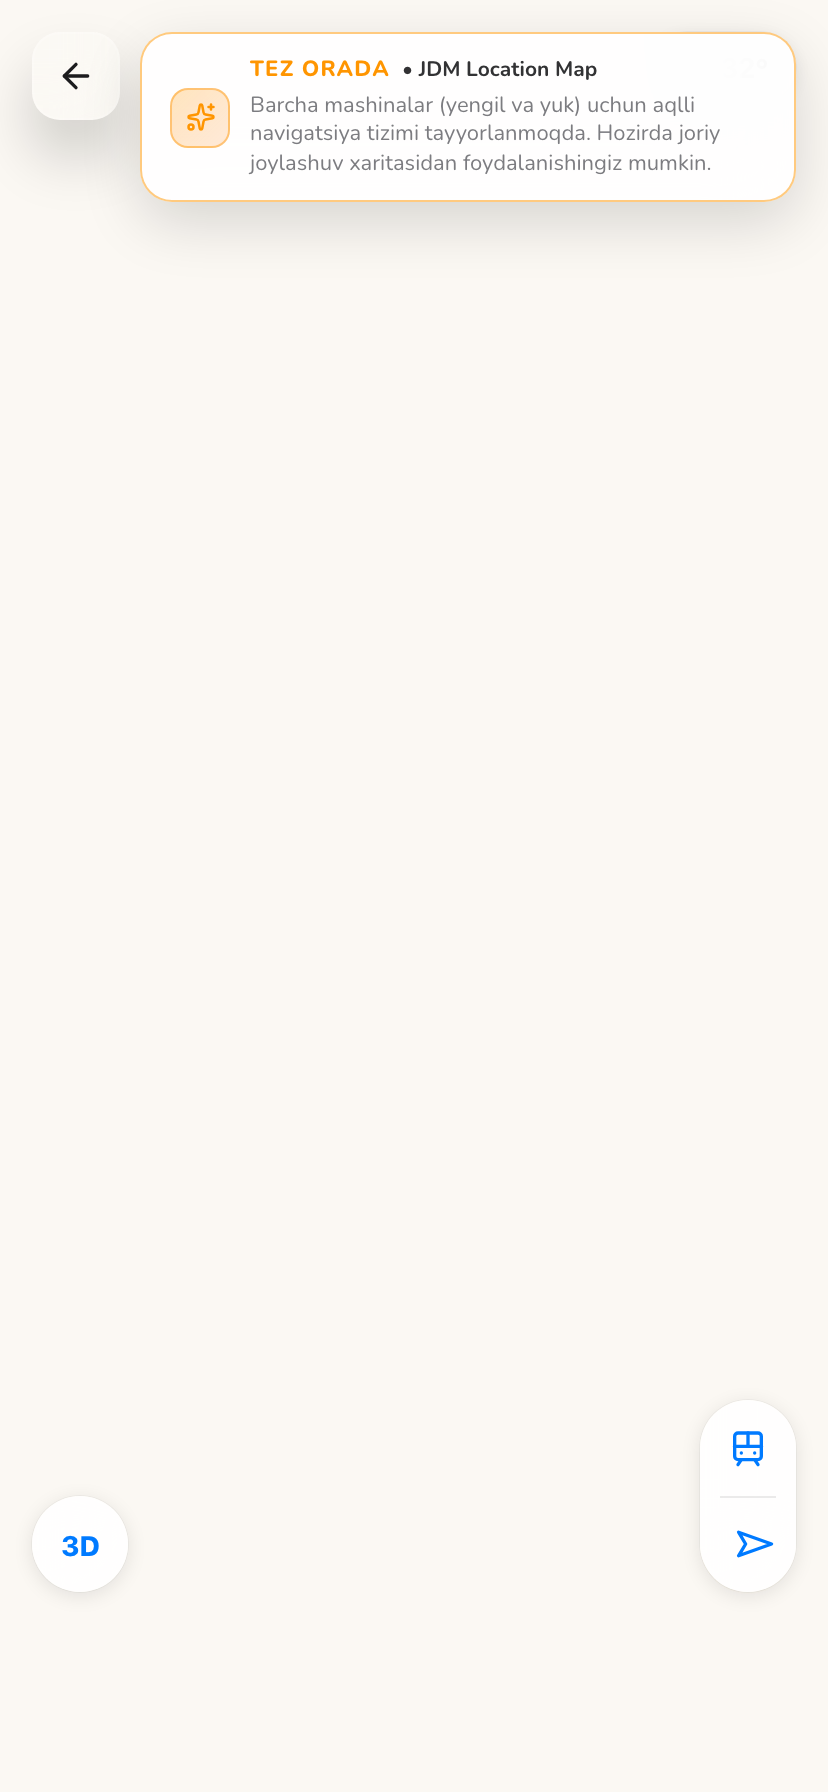
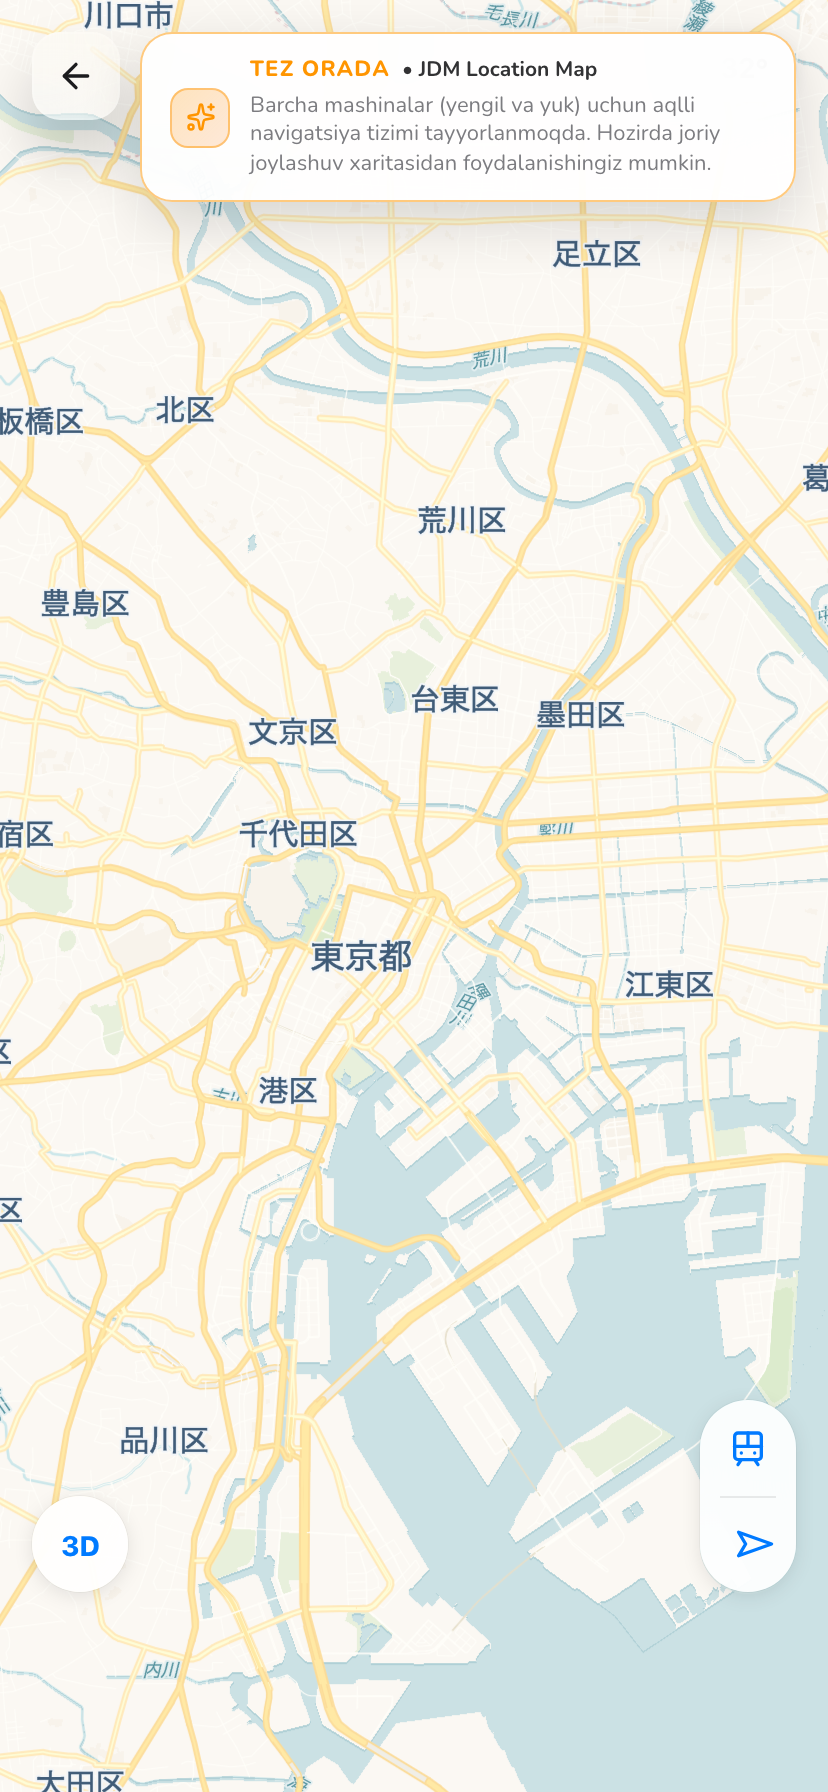
feat(presets): add 8K studio photography preset images for Toyota Scion FR-S, Land Cruiser 300, and ProBox on b1 branch

diff --git a/src/data/japaneseVehiclesMaster.js b/src/data/japaneseVehiclesMaster.js
@@ -34,12 +34,13 @@ export const MASTER_VEHICLE_DATABASE = [
   // --- TOYOTA ---
   { id: 'ty_hiace', make: 'Toyota', makeJa: 'トヨタ', model: 'HiAce', modelJa: 'ハイエース (商用バン)', era: 'modern', year: '2024', type: 'car', bodyStyle: 'van', photoUrl: '/images/presets/toyota_hiace.jpg', specs: { height: '1.98', width: '1.69', length: '4.69', weight: '1.92' } },
   { id: 'ty_harrier', make: 'Toyota', makeJa: 'トヨタ', model: 'Harrier', modelJa: 'ハリアー (高級SUV)', era: 'modern', year: '2024', type: 'car', bodyStyle: 'suv', photoUrl: '/images/presets/toyota_harrier.jpg', specs: { height: '1.69', width: '1.85', length: '4.74', weight: '1.70' } },
+  { id: 'ty_landcruiser300', make: 'Toyota', makeJa: 'トヨタ', model: 'Land Cruiser 300', modelJa: 'ランドクルーザー300', era: 'modern', year: '2024', type: 'car', bodyStyle: 'suv', photoUrl: '/images/presets/toyota_landcruiser300.jpg', specs: { height: '1.92', width: '1.98', length: '4.98', weight: '2.45' } },
+  { id: 'ty_probox', make: 'Toyota', makeJa: 'トヨタ', model: 'ProBox', modelJa: 'プロボックス (商用バン)', era: 'modern', year: '2023', type: 'car', bodyStyle: 'van', photoUrl: '/images/presets/toyota_probox.jpg', specs: { height: '1.52', width: '1.69', length: '4.24', weight: '1.09' } },
+  { id: 'ty_scion_frs', make: 'Toyota', makeJa: 'トヨタ', model: 'Scion FR-S / 86', modelJa: 'サイオン FR-S (スポーツクーペ)', era: 'modern', year: '2020', type: 'car', bodyStyle: 'sedan', photoUrl: '/images/presets/toyota_scion_frs.jpg', specs: { height: '1.28', width: '1.77', length: '4.24', weight: '1.25' } },
   { id: 'ty_alphard', make: 'Toyota', makeJa: 'トヨタ', model: 'Alphard', modelJa: 'アルファード (高級ミニバン)', era: 'modern', year: '2024', type: 'car', bodyStyle: 'minivan', photoUrl: null, specs: { height: '1.93', width: '1.85', length: '4.99', weight: '2.15' } },
-  { id: 'ty_landcruiser300', make: 'Toyota', makeJa: 'トヨタ', model: 'Land Cruiser 300', modelJa: 'ランドクルーザー300', era: 'modern', year: '2024', type: 'car', bodyStyle: 'suv', photoUrl: null, specs: { height: '1.92', width: '1.98', length: '4.98', weight: '2.45' } },
   { id: 'ty_camry', make: 'Toyota', makeJa: 'トヨタ', model: 'Camry', modelJa: 'カムリ (セダン)', era: 'modern', year: '2023', type: 'car', bodyStyle: 'sedan', photoUrl: null, specs: { height: '1.44', width: '1.84', length: '4.88', weight: '1.55' } },
   { id: 'ty_prius', make: 'Toyota', makeJa: 'トヨタ', model: 'Prius', modelJa: 'プリウス (ハイブリッド)', era: 'modern', year: '2024', type: 'car', bodyStyle: 'hatchback', photoUrl: null, specs: { height: '1.43', width: '1.78', length: '4.60', weight: '1.42' } },
   { id: 'ty_crown', make: 'Toyota', makeJa: 'トヨタ', model: 'Crown Crossover', modelJa: 'クラウン クロスオーバー', era: 'modern', year: '2024', type: 'car', bodyStyle: 'sedan', photoUrl: null, specs: { height: '1.54', width: '1.84', length: '4.98', weight: '1.75' } },
-  { id: 'ty_probox', make: 'Toyota', makeJa: 'トヨタ', model: 'ProBox', modelJa: 'プロボックス (商用バン)', era: 'modern', year: '2023', type: 'car', bodyStyle: 'van', photoUrl: null, specs: { height: '1.52', width: '1.69', length: '4.24', weight: '1.09' } },
   { id: 'ty_supra_jza80', make: 'Toyota', makeJa: 'トヨタ', model: 'Supra RZ (JZA80)', modelJa: 'スープラ RZ JZA80 (1993)', era: 'jdm_golden', year: '1993', type: 'car', bodyStyle: 'hatchback', photoUrl: null, specs: { height: '1.27', width: '1.81', length: '4.52', weight: '1.51' } },
   { id: 'ty_ae86_trueno', make: 'Toyota', makeJa: 'トヨタ', model: 'Sprinter Trueno AE86', modelJa: 'スプリンタートレノ AE86 (1983)', era: 'jdm_golden', year: '1983', type: 'car', bodyStyle: 'hatchback', photoUrl: null, specs: { height: '1.33', width: '1.62', length: '4.20', weight: '0.96' } },
   { id: 'ty_chaser_jzx100', make: 'Toyota', makeJa: 'トヨタ', model: 'Chaser Tourer V (JZX100)', modelJa: 'チェイサー ツアラーV JZX100 (1996)', era: 'jdm_golden', year: '1996', type: 'car', bodyStyle: 'sedan', photoUrl: null, specs: { height: '1.40', width: '1.75', length: '4.71', weight: '1.48' } },
@@ -101,7 +102,7 @@ export const MASTER_VEHICLE_DATABASE = [
   { id: 'fs_supergreat_10t', make: 'Mitsubishi Fuso', makeJa: '三菱ふそう', model: 'Super Great (10t Heavy)', modelJa: 'スーパーグレート (10t大型)', era: 'modern', year: '2024', type: 'truck_10t', bodyStyle: 'wing_body', photoUrl: '/images/presets/fuso_supergreat.jpg', specs: { height: '3.78', width: '2.49', length: '11.98', weight: '24.90' } },
   { id: 'fs_canter_2t', make: 'Mitsubishi Fuso', makeJa: '三菱ふそう', model: 'Canter (2t Light)', modelJa: 'キャンター (2t小型)', era: 'modern', year: '2023', type: 'truck_2t', bodyStyle: 'box_truck', photoUrl: null, specs: { height: '2.75', width: '1.89', length: '4.69', weight: '4.85' } },
   { id: 'fs_fighter_4t', make: 'Mitsubishi Fuso', makeJa: '三菱ふそう', model: 'Fighter (4t Medium)', modelJa: 'ファイター (4t中型)', era: 'modern', year: '2023', type: 'truck_4t', bodyStyle: 'wing_body', photoUrl: null, specs: { height: '3.42', width: '2.25', length: '8.42', weight: '7.85' } },
-  { id: 'fs_t951_classic', make: 'Mitsubishi Fuso', makeJa: '三菱ふそう', model: 'Fuso T951 Dump (1972)', modelJa: 'FUSO T951 大型ダンプ (1972)', era: 'classic', year: '1972', type: 'truck_10t', bodyStyle: 'dump_truck', photoUrl: null, specs: { height: '3.20', width: '2.45', length: '7.80', weight: '16.00' } },
+  { id: 'fs_t951_classic', make: 'Mitsubishi Fuso', makeJa: '三菱ふそう', model: 'Fuso T951 Dump (1972)', modelJa: 'FUSO T951 大型ダンプ (1972)', era: 'classic', year: '1972', type: 'truck_10t', bodyStyle: 'dump_truck', photoUrl: null, specs: { height: '3.20', width: '2.45', length: '16.00', weight: '16.00' } },
 
   // --- UD TRUCKS ---
   { id: 'ud_quon_10t', make: 'UD Trucks', makeJa: 'UDトラックス', model: 'Quon (10t Heavy)', modelJa: 'クオン (10t大型トラック)', era: 'modern', year: '2024', type: 'truck_10t', bodyStyle: 'wing_body', photoUrl: null, specs: { height: '3.77', width: '2.49', length: '11.97', weight: '24.85' } },

diff --git a/codebase_map.md b/codebase_map.md
@@ -704,7 +704,7 @@ graph TD
 * **Importlari:** *Yo'q*
 
 ### 📄 [japaneseVehiclesMaster.js](file:////Users/kanoatovfarrux/.gemini/antigravity/scratch/michiappforjapan/src/data/japaneseVehiclesMaster.js)
-* **Yo'li:** `src/data/japaneseVehiclesMaster.js` (144 qator)
+* **Yo'li:** `src/data/japaneseVehiclesMaster.js` (145 qator)
 * **Importlari:** *Yo'q*
 
 ### 📄 [main.jsx](file:////Users/kanoatovfarrux/.gemini/antigravity/scratch/michiappforjapan/src/main.jsx)
